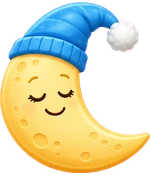
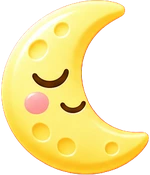
Jaboti Run: céu 3D e poderes só com ícones em cima do mascote
- Céu no estilo 3D (ChatGPT): sol, lua, 7 nuvens, passarinhos batendo asa e estrela cadente
- Poderes sem efeito em volta do mascote: só os ícones 3D em fileira em cima dele (ao lado nos pulos altos)
- Painel dos poderes em chips compactos numa fileira no alto (não desce mais sobre o mascote)

diff --git a/arcade/index.html b/arcade/index.html
@@ -580,7 +580,7 @@ else { const l = document.createElement('link'); l.rel = 'stylesheet'; l.href = 
   // profundidade: d = 0 bem longe (pequeno, lento, transparente) até 1 perto (grande, rápido)
   function newCloud(x) {
     const d = Math.random() < .12 ? .95 + Math.random() * .05 : Math.random() * .75;
-    return { x, y: 18 + (1 - d) * 70 + Math.random() * 40, d, s: .4 + d * 1.15, k: Math.floor(Math.random() * 9) };
+    return { x, y: 18 + (1 - d) * 70 + Math.random() * 40, d, s: .4 + d * 1.15, k: Math.floor(Math.random() * 7) };   // 7 = CLOUD_CELLS.length (definido mais abaixo; aqui roda antes)
   }
   function newBird(x) { const d = Math.random(); return { x, y: 40 + (1 - d) * 50 + Math.random() * 60, d, ph: Math.random() * TAU }; }
   function initScenery() {
@@ -2552,9 +2552,10 @@ else { const l = document.createElement('link'); l.rel = 'stylesheet'; l.href = 
       if (shooting) {
         shooting.life += 1 / 60;
         const k = shooting.life / .9, hx = shooting.x - k * 260, hy = shooting.y + k * 110;
-        const g = ctx.createLinearGradient(hx, hy, hx + 70, hy - 30); g.addColorStop(0, 'rgba(255,255,255,.95)'); g.addColorStop(1, 'rgba(255,255,255,0)');
-        ctx.globalAlpha = dark * Math.sin(Math.min(1, k) * Math.PI); ctx.strokeStyle = g; ctx.lineWidth = 2; ctx.lineCap = 'round';
-        ctx.beginPath(); ctx.moveTo(hx, hy); ctx.lineTo(hx + 70, hy - 30); ctx.stroke();
+        ctx.globalAlpha = dark * Math.sin(Math.min(1, k) * Math.PI);
+        if (ok(FX['estrela-cadente'])) ctx.drawImage(FX['estrela-cadente'], hx - 22.5, hy - 27.5, 80, 48);   // estrela 3D com a cauda para trás
+        else { const g = ctx.createLinearGradient(hx, hy, hx + 70, hy - 30); g.addColorStop(0, 'rgba(255,255,255,.95)'); g.addColorStop(1, 'rgba(255,255,255,0)');
+          ctx.strokeStyle = g; ctx.lineWidth = 2; ctx.lineCap = 'round'; ctx.beginPath(); ctx.moveTo(hx, hy); ctx.lineTo(hx + 70, hy - 30); ctx.stroke(); }
         if (k >= 1) shooting = null;
       }
     }
@@ -2569,7 +2570,7 @@ else { const l = document.createElement('link'); l.rel = 'stylesheet'; l.href = 
       ctx.fillStyle = sg; ctx.fillRect(sx - 95, sy - 95, 190, 190);
       if (ok(SUN_IMG)) {
         ctx.save(); ctx.translate(sx, sy); ctx.rotate(Math.sin(t * .8) * .12);
-        ctx.drawImage(SUN_IMG, -40, -40, 80, 80); ctx.restore();
+        ctx.drawImage(SUN_IMG, -43, -43, 86, 86); ctx.restore();
         if (dusk > .05) { ctx.globalAlpha = dusk * .35; ctx.fillStyle = '#ff7a2a'; ctx.beginPath(); ctx.arc(sx, sy, 28, 0, TAU); ctx.fill(); ctx.globalAlpha = 1; }
       } else { ctx.fillStyle = mix('fff6c2', 'ffb04a', dusk); ctx.beginPath(); ctx.arc(sx, sy, 30, 0, TAU); ctx.fill(); }
     }
@@ -2605,7 +2606,8 @@ else { const l = document.createElement('link'); l.rel = 'stylesheet'; l.href = 
   const SUN_IMG = new Image(); SUN_IMG.src = 'assets/cenario/sol.webp';
   const MOON_IMG = new Image(); MOON_IMG.src = 'assets/cenario/lua.webp';
   const CLOUDS_IMG = new Image(); CLOUDS_IMG.src = 'assets/cenario/nuvens.webp';
-  const CLOUD_CELLS = [[0, 1, 264, 130], [268, 2, 264, 129], [536, 0, 262, 131], [802, 0, 201, 131], [1007, 1, 196, 130], [1207, 40, 113, 91], [1324, 49, 108, 82], [1436, 66, 96, 65], [1536, 66, 93, 65]];
+  // céu 3D (ChatGPT, ferramentas/montar-ceu-3d.py, 2026-11-19): 3 nuvens grandes, 2 médias, pequena e tufinho
+  const CLOUD_CELLS = [[0, 33, 264, 131], [268, 0, 264, 164], [536, 61, 264, 103], [804, 34, 200, 130], [1008, 43, 200, 121], [1212, 90, 113, 74], [1329, 94, 96, 70]];
   let shooting = null;
 
   function ridge(factor, base, amp, f1, f2, color) {
@@ -2906,6 +2908,7 @@ else { const l = document.createElement('link'); l.rel = 'stylesheet'; l.href = 
     if (dark < .6) {
       ctx.strokeStyle = D('2b3a3f'); ctx.lineWidth = 2; ctx.lineCap = 'round';
       birds.forEach(b => {
+        if (drawBird(b)) return;
         const f = Math.sin(b.ph) * 6;
         ctx.beginPath(); ctx.moveTo(b.x - 9, b.y - f); ctx.quadraticCurveTo(b.x - 4, b.y - 3, b.x, b.y); ctx.quadraticCurveTo(b.x + 4, b.y - 3, b.x + 9, b.y - f); ctx.stroke();
       });
@@ -2996,6 +2999,7 @@ else { const l = document.createElement('link'); l.rel = 'stylesheet'; l.href = 
     if (dark < .6 && bw.fabrica < .5) {
       ctx.strokeStyle = D('2b3a3f'); ctx.lineCap = 'round';
       birds.forEach(b => {
+        if (drawBird(b)) return;
         const k = .5 + b.d * .9, f = Math.sin(b.ph) * 6 * k;                // de longe: pequeno, fino e mais claro
         ctx.globalAlpha = .45 + b.d * .55; ctx.lineWidth = 1.2 + b.d * 1.6;
         ctx.beginPath(); ctx.moveTo(b.x - 9 * k, b.y - f); ctx.quadraticCurveTo(b.x - 4 * k, b.y - 3 * k, b.x, b.y); ctx.quadraticCurveTo(b.x + 4 * k, b.y - 3 * k, b.x + 9 * k, b.y - f); ctx.stroke();
@@ -3616,13 +3620,19 @@ else { const l = document.createElement('link'); l.rel = 'stylesheet'; l.href = 
   }
   // efeitos 3D (folha do ChatGPT, ferramentas/montar-efeitos.py): rastros, ícones dos poderes, anel do escudo, asinha, fagulha
   const FX = {};
-  ['nota1', 'nota2', 'estrela', 'brilho', 'chama', 'bolha', 'escudo', 'ima', 'relogio', 'asa', 'raio', 'fagulha'].forEach(n => { const im = new Image(); im.src = `assets/efeitos/${n}.webp`; FX[n] = im; });
+  ['nota1', 'nota2', 'estrela', 'brilho', 'chama', 'bolha', 'escudo', 'ima', 'relogio', 'asa', 'raio', 'fagulha', 'passaro-1', 'passaro-2', 'estrela-cadente'].forEach(n => { const im = new Image(); im.src = `assets/efeitos/${n}.webp`; FX[n] = im; });
   // desenha o efeito n centrado em (x, y) com o lado maior = tam; rot = giro; fx = espelha na horizontal; sy = achata na vertical
   function fx(n, x, y, tam, rot = 0, flip = false, sy = 1) {
     const im = FX[n]; if (!ok(im)) return false;
     const k = tam / Math.max(im.naturalWidth, im.naturalHeight), w = im.naturalWidth * k, h = im.naturalHeight * k;
     ctx.save(); ctx.translate(x, y); if (rot) ctx.rotate(rot); if (flip || sy !== 1) ctx.scale(flip ? -1 : 1, sy);
     ctx.drawImage(im, -w / 2, -h / 2, w, h); ctx.restore(); return true;
+  }
+  // passarinho 3D (2 poses: asas para cima/para baixo, trocando com b.ph); de longe menor e mais transparente
+  function drawBird(b) {
+    const im = FX[Math.sin(b.ph) > 0 ? 'passaro-1' : 'passaro-2']; if (!ok(im)) return false;
+    const w = 15 + b.d * 19, h = w * im.naturalHeight / im.naturalWidth;
+    ctx.save(); ctx.globalAlpha *= .6 + b.d * .4; ctx.drawImage(im, b.x - w / 2, b.y - h / 2, w, h); ctx.restore(); return true;
   }
   function drawParticles() {
     particles.forEach(p => {
@@ -3718,9 +3728,9 @@ else { const l = document.createElement('link'); l.rel = 'stylesheet'; l.href = 
     if (x2 < 0) return SHF;
     const cx = (x1 + x2 + 1) / 2, cyy = (y1 + y2 + 1) / 2; let m = 0;
     for (let y = y1; y <= y2; y++) for (let x = x1; x <= x2; x++) if (d[(y * w + x) * 4 + 3] > 60) { const dd = (x + .5 - cx) ** 2 + (y + .5 - cyy) ** 2; if (dd > m) m = dd; }
-    const wx = PX - WW / 2 + cx / Q, wy = top + cyy / Q, wr = Math.sqrt(m) / Q + 10;
-    if (!SHF.ok) { SHF.x = wx; SHF.y = wy; SHF.r = Math.max(SH_R, wr); SHF.ok = true; }
-    else { SHF.x = lerp(SHF.x, wx, .6); SHF.y = lerp(SHF.y, wy, .6); SHF.r = wr > SHF.r ? wr : lerp(SHF.r, Math.max(SH_R, wr), .12); }
+    const wx = PX - WW / 2 + cx / Q, wy = top + cyy / Q, wr = Math.sqrt(m) / Q + 10, wt = top + y1 / Q;
+    if (!SHF.ok) { SHF.x = wx; SHF.y = wy; SHF.top = wt; SHF.r = Math.max(SH_R, wr); SHF.ok = true; }
+    else { SHF.x = lerp(SHF.x, wx, .6); SHF.y = lerp(SHF.y, wy, .6); SHF.top = lerp(SHF.top, wt, .6); SHF.r = wr > SHF.r ? wr : lerp(SHF.r, Math.max(SH_R, wr), .12); }
     return SHF;
   }
   let shieldTexC = null;
@@ -3791,30 +3801,23 @@ else { const l = document.createElement('link'); l.rel = 'stylesheet'; l.href = 
       particles.push({ type: 'hexshard', x: cx + Math.cos(a) * R, y: cy + Math.sin(a) * R, vx: Math.cos(a) * v, vy: Math.sin(a) * v - 60, life: .6, max: .6, r: 5 + Math.random() * 4, rot: Math.random() * TAU, vr: (Math.random() - .5) * 14 }); }
     particles.push({ type: 'shockwave', x: cx, y: cy, life: .4, max: .4, r: R });
   }
+  // 2026-11-19 (pedido do usuário): os poderes NÃO têm mais efeito em volta do mascote (escudo, ondas do ímã, anéis do lento,
+  // rastro do turbo, estrelas do x2, faíscas do pulo); só os ícones 3D numa fileira EM CIMA do mascote. A fruta continua
+  // mudando de cor (tinted). Funções antigas do escudo (drawShield/shieldOrbit/shieldTex) ficaram sem uso.
+  const POWER_ICON = { turbo: 'raio', escudo: 'escudo', dobro: 'x2', ima: 'ima', pulo: 'asa', lento: 'relogio' };
+  function drawPowerIcon(n, x, y, i) {
+    const bob = Math.sin(t * 4 + i * 1.7) * 3;
+    if (n === 'x2') {                                                          // estrela dourada com "x2"
+      fx('estrela', x, y + bob, 36, Math.sin(t * 3 + i) * .15);
+      ctx.save(); ctx.font = `15px ${UI}`; ctx.textAlign = 'center'; ctx.textBaseline = 'middle'; ctx.lineJoin = 'round';
+      ctx.lineWidth = 4; ctx.strokeStyle = '#8a4a00'; ctx.strokeText('x2', x, y + bob + 2); ctx.fillStyle = '#ffffff'; ctx.fillText('x2', x, y + bob + 2); ctx.restore();
+    } else if (n === 'escudo') { fx('bolha', x, y + bob, 24); fx('escudo', x, y + bob, 32, t * 1.5); }   // bolha com o anel de hexágonos girando
+    else if (n === 'asa') fx('asa', x, y + bob, 32, -.15, true, .8 + Math.sin(t * 14) * .2);              // asinha batendo
+    else fx(n, x, y + bob, 32, n === 'relogio' ? Math.sin(t * 3) * .3 : Math.sin(t * 2 + i) * .1);
+  }
   function drawPlayerFx() {
     const cy = GROUND - player.y - 58, live = state === 'running' || state === 'paused';
-    // brilho pulsando atrás do mascote, na cor do poder
-    const tk = live && activeTint();
-    if (tk) {
-      const a = .32 + Math.sin(t * 6) * .08, g = ctx.createRadialGradient(PX, cy, 8, PX, cy, 74);
-      g.addColorStop(0, `rgba(${POWER_TINT[tk].aura},${a})`); g.addColorStop(1, `rgba(${POWER_TINT[tk].aura},0)`);
-      ctx.fillStyle = g; ctx.beginPath(); ctx.arc(PX, cy, 74, 0, TAU); ctx.fill();
-    }
-    // turbo: rastro dourado de velocidade e fagulhas atrás
-    if (skills.turbo > 0 && state === 'running') {
-      ctx.save(); ctx.strokeStyle = 'rgba(255,214,58,.7)'; ctx.lineCap = 'round';
-      for (let i = 0; i < 5; i++) {
-        const yy = cy - 34 + i * 17 + Math.sin(t * 20 + i) * 3, len = 50 + ((t * 300 + i * 37) % 60);
-        ctx.lineWidth = 3 - Math.abs(i - 2) * .6; ctx.globalAlpha = .55 - Math.abs(i - 2) * .12;
-        ctx.beginPath(); ctx.moveTo(PX - 34, yy); ctx.lineTo(PX - 34 - len, yy); ctx.stroke();
-      }
-      ctx.restore();
-      if (Math.random() < .5) particles.push({ type: 'ember', x: PX - 26, y: cy + (Math.random() - .5) * 60, vx: -160 - Math.random() * 120, vy: (Math.random() - .5) * 40, life: .35, max: .35, r: 3 + Math.random() * 2.5 });
-      ghostPass = true;                            // cópias do rastro: só desenham, sem rastro de manobra nem poeira
-      for (let i = 3; i >= 1; i--) { ctx.save(); ctx.globalAlpha = .1 * (4 - i); ctx.translate(-i * 20, 0); drawMascot(); ctx.restore(); }
-      ghostPass = false;
-    }
-    // cor especial: brilho/efeito em volta e arco-íris trocando de cor
+    // cor especial (loja): brilho/efeito em volta e arco-íris trocando de cor
     const SK2 = curSkin();
     if (SK2.aura && state !== 'over') {
       const a = .26 + Math.sin(t * (SK2.fx === 'lava' ? 9 : 4)) * .08, r = SK2.fx === 'neon' ? 64 + dark * 20 : 60, g = ctx.createRadialGradient(PX, cy, 6, PX, cy, r);
@@ -3825,65 +3828,38 @@ else { const l = document.createElement('link'); l.rel = 'stylesheet'; l.href = 
       const an = t * 1.6 + i * TAU / 5; star(PX + Math.cos(an) * 46, cy + Math.sin(an) * 22 - 6, 2.5 + Math.sin(t * 6 + i) * 1.2, i % 2 ? '#d8c8ff' : '#ffffff');
     }
     if (loja.rastro === 'tr_arco' && live && trailHist.length > 2) drawRainbowTrail();
-    // escudo: metade de trás do anel em órbita (a cúpula e a metade da frente vêm depois do mascote)
-    const shieldOn = skills.escudo > 0 && live && !(skills.escudo < 2 && Math.floor(t * 10) % 2);
-    if (!shieldOn) SHF.ok = false;
-    const SF = shieldOn ? shieldFit(cy) : null;                                // centro e raio que cobrem o mascote desenhado agora
-    if (shieldOn) shieldOrbit(SF, false);
     // pisca durante a invencibilidade
     const rainbow = SK2.fx === 'arcoiris' && 'filter' in ctx;
     if (rainbow) ctx.filter = `hue-rotate(${(t * 140) % 360}deg) saturate(1.3)`;
     if (!(invuln > 0 && state === 'running' && Math.floor(t * 18) % 2)) drawMascot();
     if (rainbow) ctx.filter = 'none';
-    if (state !== 'running' && state !== 'paused') return;
-    // ímã: ondas laranja puxando as tampinhas, com faíscas
-    if (skills.ima > 0) {
-      ctx.save(); ctx.strokeStyle = '#ff7a14'; ctx.lineCap = 'round';
-      for (let i = 0; i < 4; i++) { const k = 1 - (t * 1.4 + i / 4) % 1; ctx.lineWidth = 2 + k * 2; ctx.globalAlpha = (1 - k) * .7; ctx.beginPath(); ctx.arc(PX, cy, 38 + k * 90, -1.15, 1.15); ctx.stroke(); }
-      ctx.restore();
-      if (state === 'running' && Math.random() < .25) { const a = (Math.random() - .5) * 2.2, d = 60 + Math.random() * 50; particles.push({ type: 'spark', x: PX + Math.cos(a) * d, y: cy + Math.sin(a) * d, vx: -Math.cos(a) * 160, vy: -Math.sin(a) * 160, life: .35, max: .35, r: 2, color: '#ffb35a' }); }
-    }
-    // câmera lenta: anéis roxos se abrindo devagar e bolinhas flutuando
-    if (skills.lento > 0) {
-      ctx.save(); ctx.strokeStyle = '#be78ff'; ctx.lineWidth = 2;
-      for (let i = 0; i < 2; i++) { const k = (t * .45 + i / 2) % 1; ctx.globalAlpha = (1 - k) * .55; ctx.beginPath(); ctx.arc(PX, cy, 30 + k * 80, 0, TAU); ctx.stroke(); }
-      ctx.fillStyle = '#d9b3ff';
-      for (let i = 0; i < 6; i++) { const a = t * .8 + i * TAU / 6; ctx.globalAlpha = .5 + Math.sin(t * 3 + i) * .25; ctx.beginPath(); ctx.arc(PX + Math.cos(a) * 52, cy + Math.sin(a) * 40, 3, 0, TAU); ctx.fill(); }
-      ctx.restore();
-    }
-    // pontos x2: duas estrelinhas amarelas girando em volta
-    if (skills.dobro > 0) for (let i = 0; i < 2; i++) {
-      const a = t * 4 + i * Math.PI, x = PX + Math.cos(a) * 50, y = cy + Math.sin(a) * 22 - 10;
-      if (!fx('estrela', x, y, 20 + Math.sin(a) * 4, t * 5)) star(x, y, 7, '#fff05a');
-    }
-    // escudo da Cola: cúpula de energia (hexágonos fortes na borda, quase invisíveis no meio), borda brilhante, faixa de luz, anel na frente
-    if (shieldOn) drawShield(SF);
-    // ícones 3D dos poderes flutuando acima da cabeça (ímã, relógio do lento, raio do turbo)
-    { const ic = [skills.ima > 0 && 'ima', skills.lento > 0 && 'relogio', skills.turbo > 0 && 'raio'].filter(Boolean);
-      const top = cy - 118 - (wheels() ? 22 : 0) - (player.slide && player.ground ? -26 : 0);
-      ic.forEach((n, i) => { const x = PX - (ic.length - 1) * 19 + i * 38, bob = Math.sin(t * 4 + i * 1.7) * 4, end = skills[{ ima: 'ima', relogio: 'lento', raio: 'turbo' }[n]] < 2 && Math.floor(t * 10) % 2;
-        if (!end) fx(n, x, top + bob, 34, n === 'relogio' ? Math.sin(t * 3) * .3 : Math.sin(t * 2 + i) * .1); }); }
-    // pulo triplo: asinha batendo atrás dos tênis
-    if (skills.pulo > 0) fx('asa', PX - 30, GROUND - player.y - 30 - (wheels() ? 26 : 0), 50, -.25, true, .75 + Math.sin(t * (player.ground ? 8 : 22)) * .25);
-    // pulo triplo: faíscas verdes nos tênis e anel verde ao sair do chão
-    if (skills.pulo > 0 && state === 'running' && !player.ground && player.vy > 600 && Math.random() < .5) ring(PX, GROUND - player.y, '#96f05a');
-    if (skills.pulo > 0 && state === 'running' && Math.random() < .45) particles.push({ type: 'spark', x: PX + (Math.random() - .5) * 30, y: GROUND - player.y - 4, vx: (Math.random() - .5) * 40, vy: 30, life: .4, max: .4, r: 2, color: '#b8f06a' });
+    // ícones dos poderes ativos numa fileira acima do mascote (posição medida no desenho real: acompanha pulos e manobras)
+    const ic = live ? POWER_ORDER.filter(k => skills[k] > 0) : [];
+    if (!ic.length) { SHF.ok = false; return; }
+    const F = shieldFit(cy), gap = 38, topo = -camY + 100;                      // topo visível do mundo (abaixo do painel)
+    let y = Math.min(F.top - 22, cy - 100), x0 = F.x - (ic.length - 1) * gap / 2;
+    if (y < topo) { y = Math.max(topo, F.y - 10); x0 = F.x + F.r * .75 + 22; }  // sem espaço em cima (pulo alto): fileira ao lado
+    ic.forEach((k, i) => {
+      if (skills[k] < 2 && Math.floor(t * 10) % 2) return;                     // pisca nos 2 s finais
+      drawPowerIcon(POWER_ICON[k], x0 + i * gap, y, i);
+    });
   }
   // poderes ativos no canto (2026-11-18: maior e legível): pílula escura com garrafa, nome, barra e segundos restantes
   function drawSkillHud(ink) {
-    let y = 50;
-    for (const k of SKILL_KEYS) {
+    // 2026-11-19: chips compactos em FILEIRA no alto (ícone 3D do poder, segundos e barra). Antes empilhava para baixo e,
+    // com muitos poderes, ficava em cima do mascote. 6 chips cabem antes dos botões de pausa/som do meio.
+    let x = 10; const y = 50, w = 78;
+    for (const k of POWER_ORDER) {
       if (!(skills[k] > 0)) continue;
-      const sk = SKILLS[k], frac = clamp(skills[k] / sk.dur, 0, 1), f = flavorByName(sk.flavors[0]);
-      ctx.fillStyle = 'rgba(10,20,30,.55)'; rr(10, y - 4, 178, 40, 20); ctx.fill();
+      const sk = SKILLS[k], frac = clamp(skills[k] / sk.dur, 0, 1);
+      ctx.fillStyle = 'rgba(10,20,30,.55)'; rr(x, y - 2, w, 34, 17); ctx.fill();
       ctx.strokeStyle = sk.color; ctx.lineWidth = 2; ctx.stroke();
-      if (!drawBottleArt(f, true, 30, y + 33, 34)) ctx.drawImage(bottleSprite(f, 24, 58), 22, y - 1, 14, 34);
-      ctx.font = `19px ${UI}`; ctx.textAlign = 'left'; ctx.textBaseline = 'alphabetic'; ctx.lineJoin = 'round';
-      ctx.lineWidth = 4; ctx.strokeStyle = 'rgba(0,0,0,.6)'; ctx.strokeText(sk.short, 48, y + 16); ctx.fillStyle = '#ffffff'; ctx.fillText(sk.short, 48, y + 16);
-      ctx.font = `15px ${UI}`; ctx.textAlign = 'right'; ctx.fillStyle = sk.color; ctx.fillText(Math.ceil(skills[k]) + 's', 178, y + 16);
-      ctx.fillStyle = 'rgba(255,255,255,.22)'; rr(48, y + 22, 130, 8, 4); ctx.fill();
-      ctx.fillStyle = sk.color; rr(48, y + 22, 130 * frac, 8, 4); ctx.fill();
-      y += 46;
+      drawPowerIcon(POWER_ICON[k], x + 17, y + 15, 0);
+      ctx.font = `16px ${UI}`; ctx.textAlign = 'right'; ctx.textBaseline = 'alphabetic'; ctx.lineJoin = 'round';
+      ctx.lineWidth = 4; ctx.strokeStyle = 'rgba(0,0,0,.6)'; ctx.strokeText(Math.ceil(skills[k]) + 's', x + w - 9, y + 15); ctx.fillStyle = '#ffffff'; ctx.fillText(Math.ceil(skills[k]) + 's', x + w - 9, y + 15);
+      ctx.fillStyle = 'rgba(255,255,255,.22)'; rr(x + 36, y + 21, w - 45, 6, 3); ctx.fill();
+      ctx.fillStyle = sk.color; rr(x + 36, y + 21, (w - 45) * frac, 6, 3); ctx.fill();
+      x += w + 5;
     }
   }
   // aviso grande no meio da tela quando pega um poder: nome + o que ele faz
